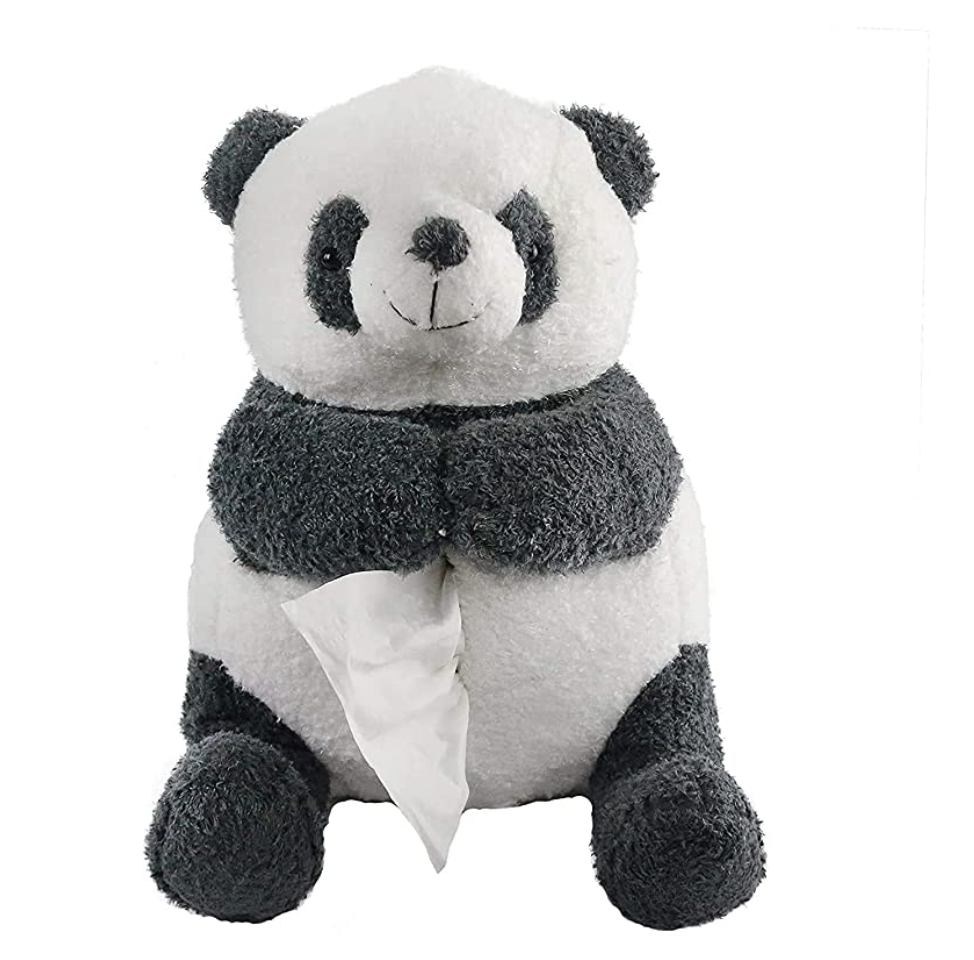
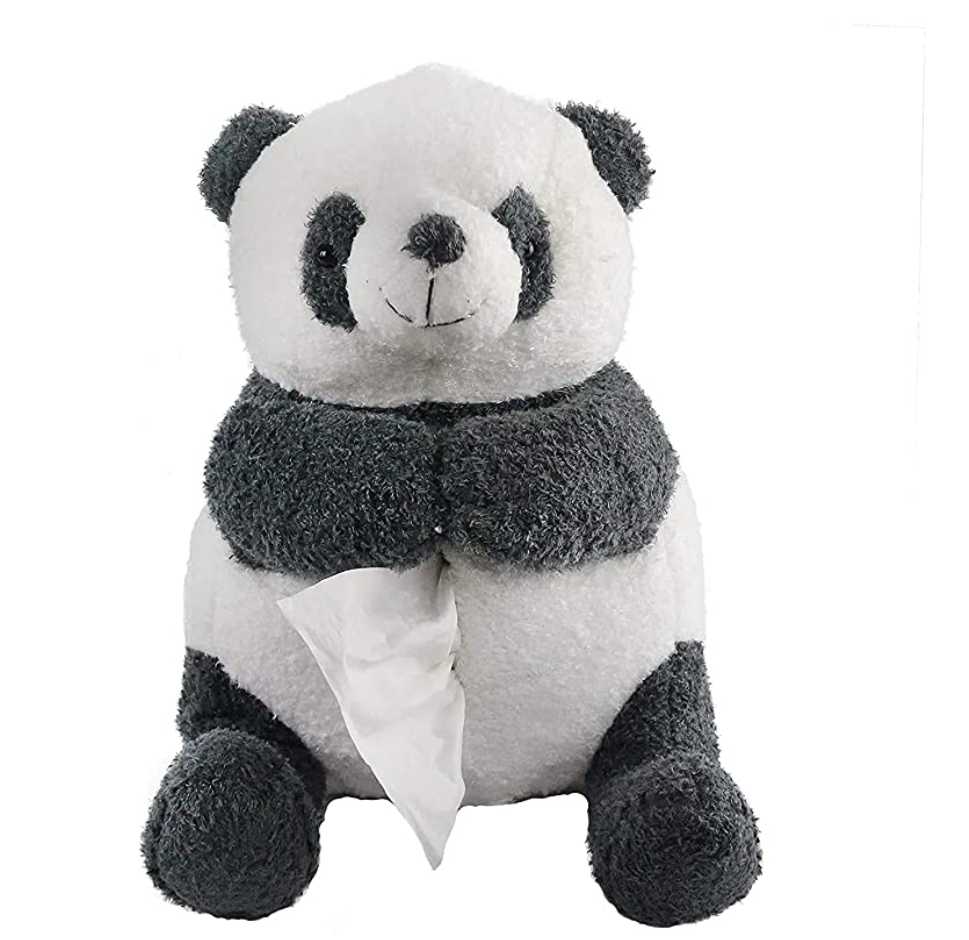
made images responsive

diff --git a/Responsive Website Project/products.html b/Responsive Website Project/products.html
@@ -55,7 +55,7 @@
     </section>
 
     <!--Products-->
-    <div class="main">
+     <!--<div class="main">
         <section class="products">
         <div class="product" onmouseover="switchEl('cat');" onmouseout="switchBack('cat');">
             <div><img id="cat" src="./images/cat.png"><img id="cat-alt" src="./images/cat-alternate.png"></div>
@@ -73,10 +73,28 @@
             </div>
         <div class="product-name">Orange Cat Tissue Cover <br> $20</div>
         <div class="product-name">Panda Tissue Cover <br>$20</div>
-    </section></div>
-    
-    
-</section>
+    </section></div> -->
+
+    <div class="main">
+            <section class="products">
+            <div class="product">
+                <div><img src="./images/cat.png"></div>
+                <div class="product-name">Cat Tissue Cover <br> $20</div>
+            </div>
+            <div class="product">
+                <div><img src="./images/elephant.png"></div>
+                <div class="product-name">Elephant Tissue Cover <br> $20</div>
+            </div>
+            <div class="product">
+                <div><img src="./images/cat1.png"></div>
+                <div class="product-name">Orange Cat Tissue Cover <br> $20</div>
+            </div>
+            <div class="product">
+                <div><img src="./images/panda.png"></div>
+                <div class="product-name">Panda Tissue Cover <br>$20</div>
+            </div>
+        </section>
+        </div>
 <!--Form-->
 <section id="newsletter">
     <h3>Subscribe To Our Newsletter</h3>

diff --git a/Responsive Website Project/CSS/products.css b/Responsive Website Project/CSS/products.css
@@ -64,13 +64,11 @@ body {
 }
 
 .product img{
-    width: 400px;
+    width: 100%;
     height: auto;
-}
-
-.product{
     border: #c38d9e solid 5px;
 }
+
 
 .product-name{
     text-align: left;
@@ -126,4 +124,10 @@ body {
 
 footer .grid {
     background-color: #e27d60;
+}
+
+@media (max-width: 600px) {
+    .products {
+        grid-template-columns: repeat(1, 1fr);
+    }
 }
